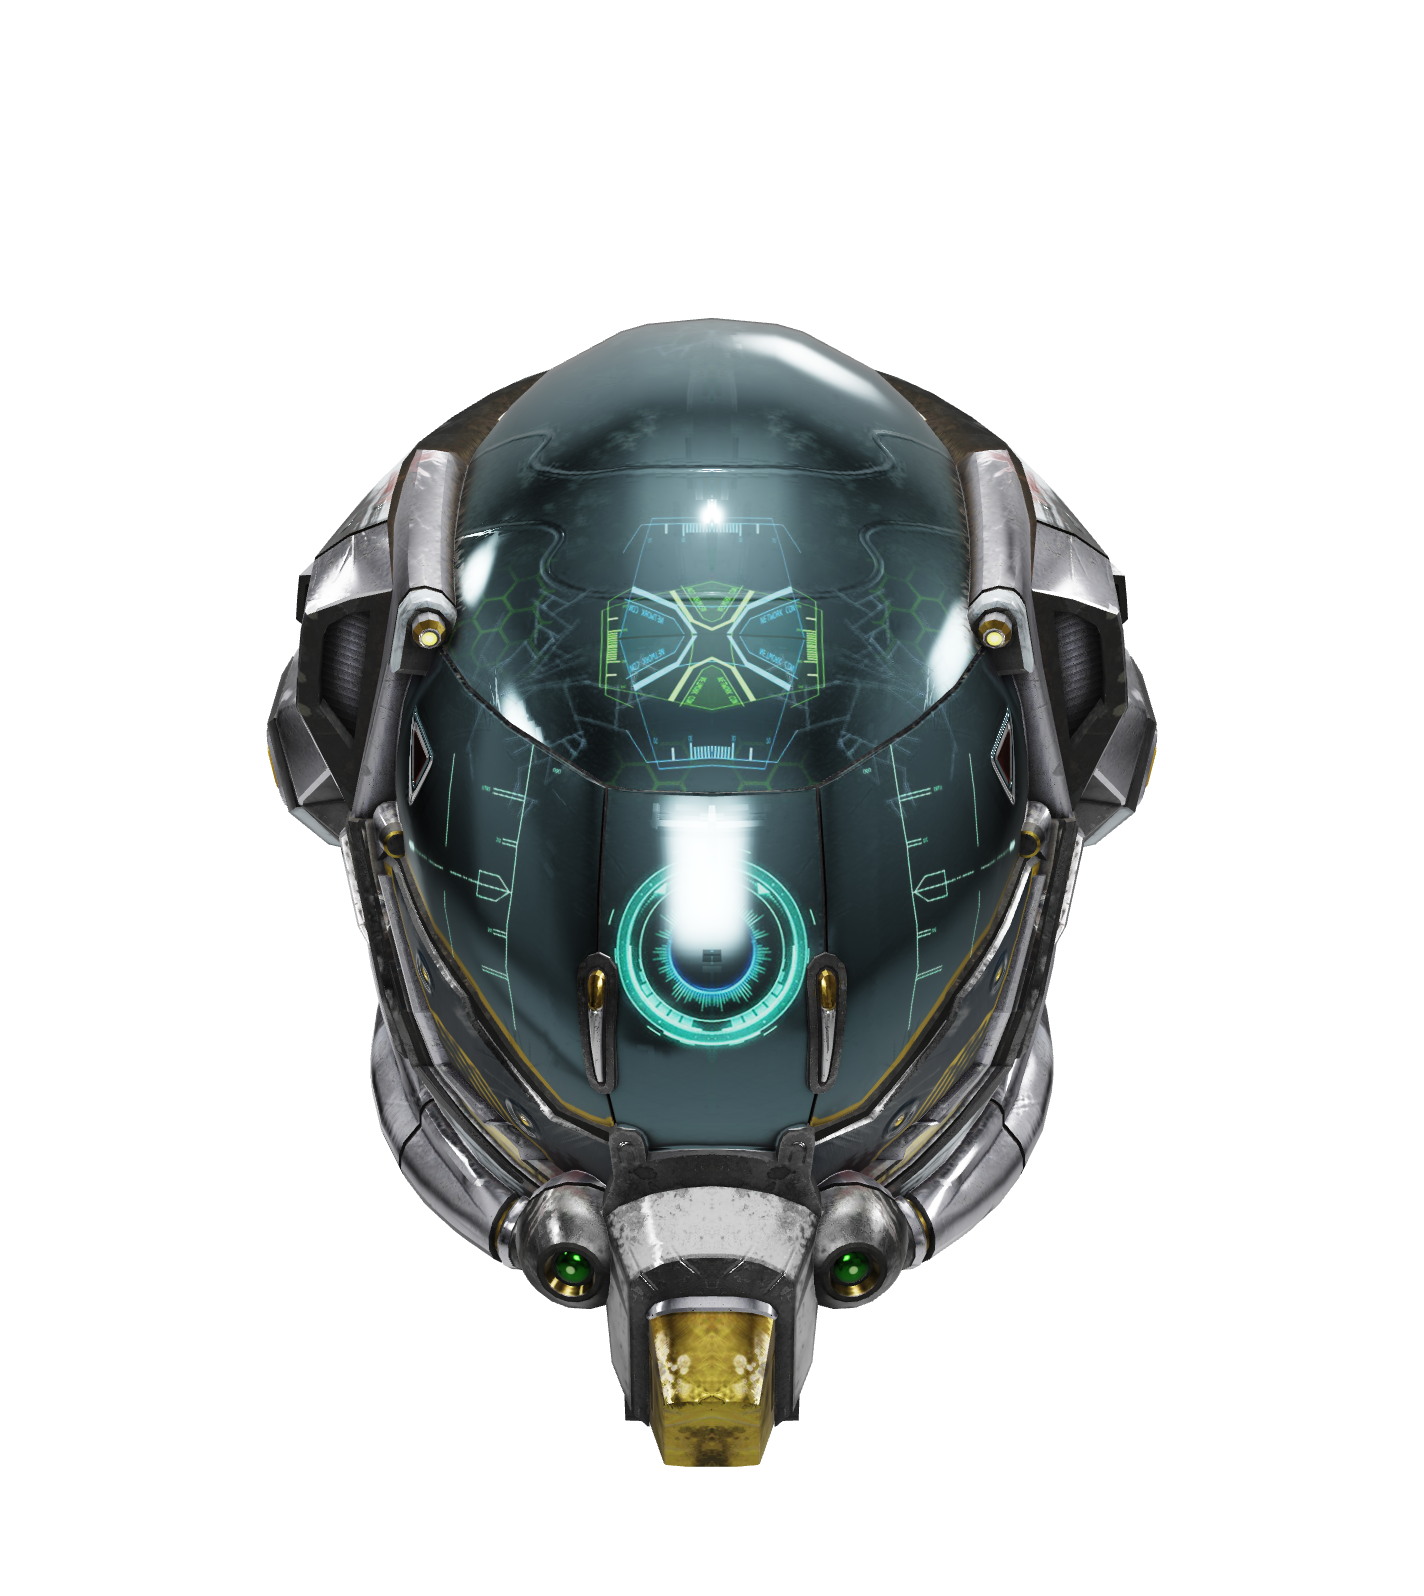
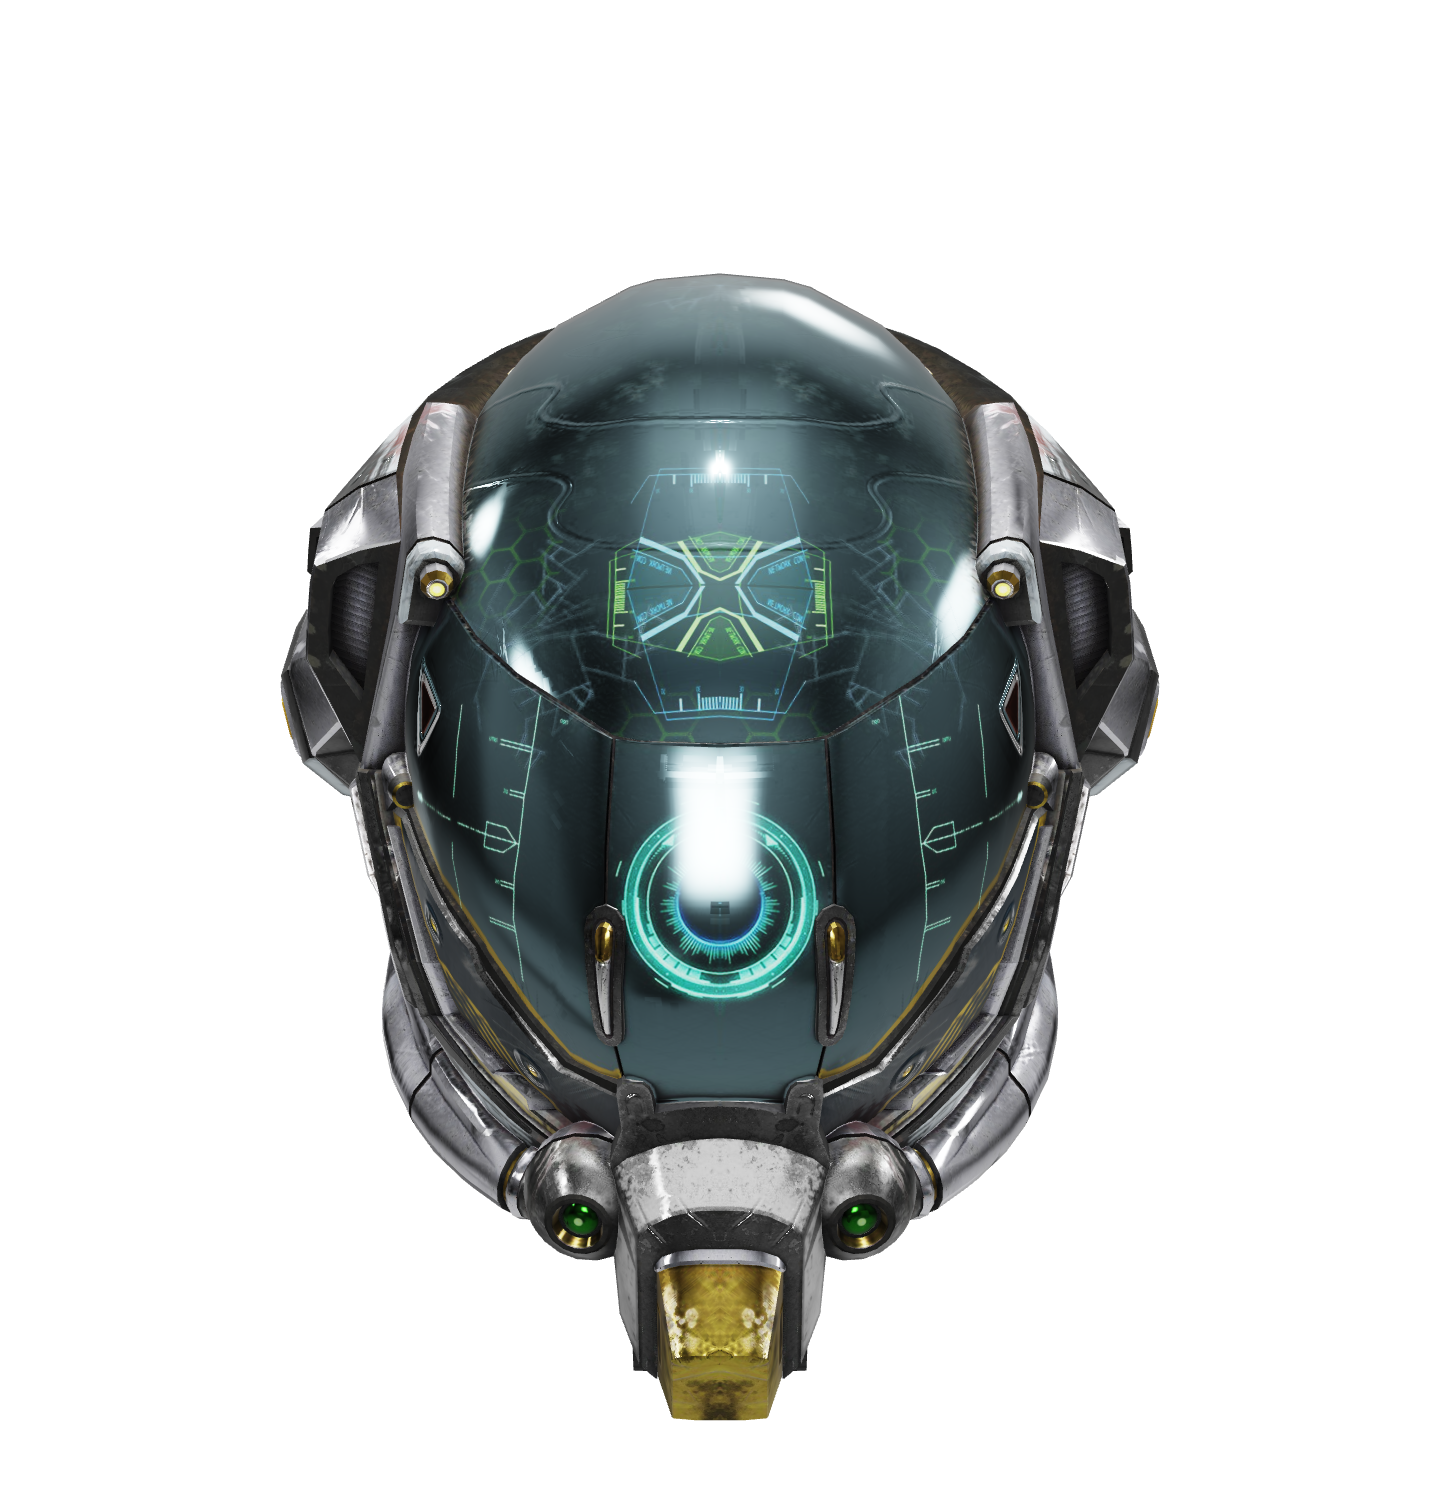
updated lazy load demo

Changed region(s): [[0.1854, 0.1842, 0.8343, 0.9519]]

diff --git a/examples/lazy-loading.html b/examples/lazy-loading.html
@@ -41,7 +41,37 @@
 
   <!-- 💁 OPTIONAL: Include prismatic.js for Magic Leap support -->
   <!--<script src="../node_modules/@magicleap/prismatic/prismatic.min.js"></script>-->
-
+  <style>
+    #button-load {
+      background-image: url(assets/ic_get_app_white_24dp.svg);
+      background-repeat: no-repeat;
+      background-size: 24px 24px;
+      background-position: 6% 50%;
+      background-color: #000;
+      color: white;
+      cursor: pointer;
+      border-radius: 6px;
+      display: inline-block;
+      padding: 10px 18px 9px 40px;
+      font-weight: 500;
+      box-shadow: 0 0 8px rgba(0,0,0,.2), 0 0 4px rgba(0,0,0,.25);
+      position: absolute;
+      left: 50%;
+      top: 50%;
+      transform: translate3d(-50%, -50%, 0);
+      z-index: 100;
+    }
+    #lazy-load-poster {
+      position: absolute;
+      left: 0;
+      right: 0;
+      top: 0;
+      bottom: 0;
+      background-image: url(assets/poster-damagedhelmet.png);
+      background-size: cover;
+      background-position: 50% 50%;
+    }
+  </style>
 </head>
 
 <body>
@@ -89,19 +119,17 @@
     <div class="content">
       <div class="wrapper">
         <div class="heading">
-          <h2 class="demo-title">Lazy load with poster until interaction</h2>
+          <h2 class="demo-title">Customize loading experience with your own HTML</h2>
+          <!-- <h2 class="demo-title">Lazy load with poster until interaction</h2> -->
           <h4></h4>
         </div>
         <example-snippet stamp-to="demo-container-3" highlight-as="html">
           <template>
 <!-- use unique asset to ensure lazy loading -->
-<model-viewer id="lazy-load" camera-controls poster="assets/poster-damagedhelmet.png" src="assets/DamagedHelmet/DamagedHelmet.gltf" alt="A 3D model of a damaged helmet"></model-viewer>
-<script>
-$('#lazy-load').addEventListener('load', e => {
-  // Display a red border to illustrate load timing
-  // e.target.style.border = '1px solid #ccc';
-}, { once: true });
-</script>
+<model-viewer id="lazy-load" camera-controls reveal="interaction" poster="assets/poster-damagedhelmet.png" src="assets/DamagedHelmet/DamagedHelmet.gltf" alt="A 3D model of a damaged helmet">
+  <div id="lazy-load-poster" slot="poster"></div>
+  <div id="button-load" slot="poster">Load 3D Model</div>
+</model-viewer>
           </template>
         </example-snippet>
       </div>
